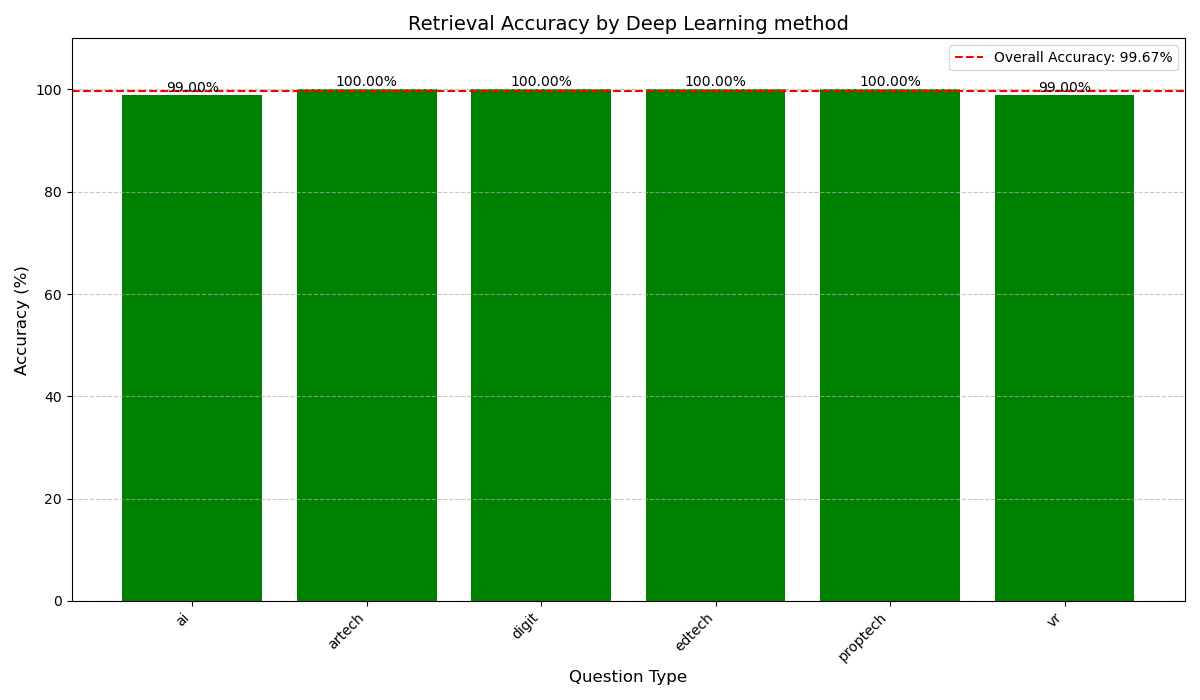
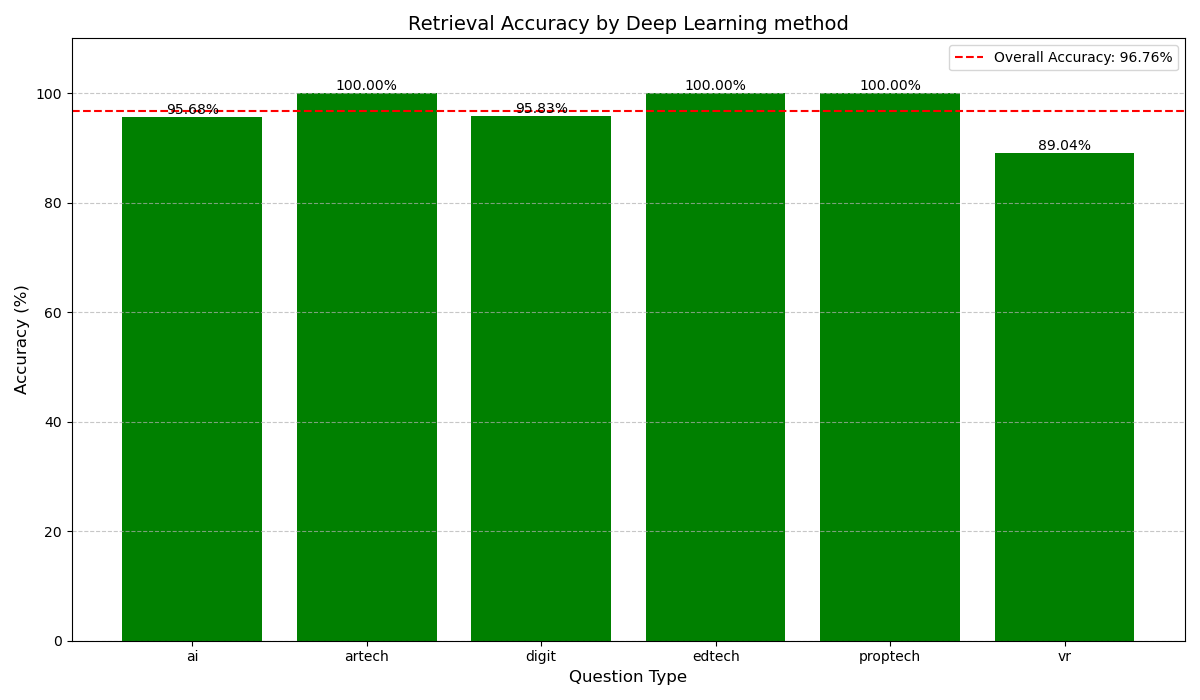
adjust threshold

diff --git a/test_deepl.py b/test_deepl.py
@@ -90,7 +90,7 @@ def plot_accuracy_results(accuracy_results):
     plt.title('Retrieval Accuracy by Deep Learning method', fontsize=14)
     plt.xlabel('Question Type', fontsize=12)
     plt.ylabel('Accuracy (%)', fontsize=12)
-    plt.xticks(range(len(question_types)), question_types, rotation=45, ha='right')
+    plt.xticks(range(len(question_types)), question_types)
     plt.ylim(0, max(accuracies) * 1.1)
     
     for bar in bars:
@@ -106,5 +106,5 @@ def plot_accuracy_results(accuracy_results):
     plt.savefig('analysis/deepl_acc.png')
     plt.show()
 
-accuracy_results = test_retrieval_accuracy(preprocessed_database, tokenizers, model, 0.98) #这里调整阈值
+accuracy_results = test_retrieval_accuracy(preprocessed_database, tokenizers, model, 0.985) #这里调整阈值
 plot_accuracy_results(accuracy_results)

diff --git a/test_machinel.py b/test_machinel.py
@@ -96,7 +96,7 @@ def plot_accuracy_results(accuracy_results):
     plt.title('Retrieval Accuracy by Machinel method', fontsize=14)
     plt.xlabel('Question Type', fontsize=12)
     plt.ylabel('Accuracy (%)', fontsize=12)
-    plt.xticks(range(len(question_types)), question_types, rotation=45, ha='right')
+    plt.xticks(range(len(question_types)), question_types)
     plt.ylim(0, max(accuracies) * 1.1)
     
     for bar in bars:
@@ -112,5 +112,5 @@ def plot_accuracy_results(accuracy_results):
     plt.savefig('analysis/machinel_acc.png')
     plt.show()
 
-accuracy_results = test_retrieval_accuracy(database, tfidf_matrix, vectorizers, 0.98) #这里调整阈值
+accuracy_results = test_retrieval_accuracy(database, tfidf_matrix, vectorizers, 0.99) #这里调整阈值
 plot_accuracy_results(accuracy_results)
